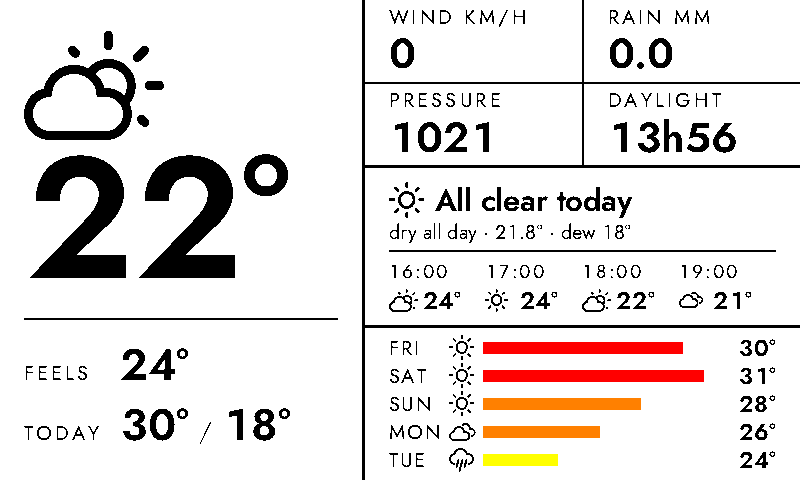
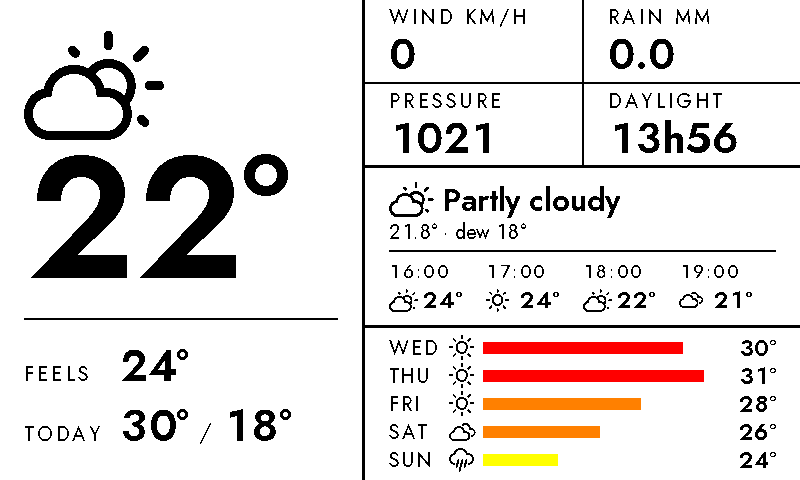
Show the current condition when nothing needs flagging
The NEXT zone's quiet state read "All clear today" over the day's
conditions. The design expected a qualifier like "dry all day", but the
Tempest API words conditions as sky ("Partly Cloudy", "Rain Possible"),
so the panel said all clear and partly cloudy in one breath. "Today" also
overpromised: only the next few hours are checked for rain.

- The quiet headline is now the current condition in sentence case, with
  the matching day/night glyph, over exact temperature, dew point and
  pressure trend. Any active concern still takes the slot.
- Widen the NEXT glyph column from 46 to 54 px. Partly cloudy, day rain,
  day snow, fog and wind glyphs are 40-45 px wide at 32 px and touched
  the headline; the wind one already did on "Gusts".
- check_widths() now asserts the longest API condition fits and every
  glyph clears the headline by 8 px.
- Quiet scenario uses API-style wording; README and preview updated.

Claude-Session: https://claude.ai/code/session_01We2HT92gfHP8UoXH2mUDBq

diff --git a/main.py b/main.py
@@ -330,7 +330,7 @@ METRIC_BLOCK_H = METRIC_LABEL_LINE + METRIC_LABEL_GAP + SIZE_METRIC   # 68
 NEXT_PAD_TOP = 16
 NEXT_PAD_BOTTOM = 12
 NEXT_TITLE_H = 32
-NEXT_GLYPH_COL = 46
+NEXT_GLYPH_COL = 54         # widest condition glyph is 45 px at 32; 9 px clear
 NEXT_SUB_GAP = 6
 NEXT_SUB_H = SIZE_LABEL
 NEXT_STRIP_GAP = 10         # clearance above the strip's rule
@@ -1382,26 +1382,25 @@ def select_concern(weather):
             "clauses": [f"low {fmt_temp(low)}", f"dew {fmt_temp(dew)}", exact_clause],
         }
 
-    # 7. Nothing active.
+    # 7. Nothing active: say what the sky is doing now.
+    # This used to read "All clear today" over the day's conditions, which
+    # the API words as sky ("Partly Cloudy", "Rain Possible"), so the panel
+    # said all clear and partly cloudy in one breath. It also promised the
+    # whole day while only the next few hours are checked above. The
+    # current condition is what you would see out of the window, and when
+    # anything above becomes active it takes this slot, so the absence of
+    # a concern is still legible.
     trend = weather.get("pressure_trend")
-    clauses = [
-        (weather.get("today_conditions") or "").strip().lower() or None,
-        exact_clause,
-        f"dew {fmt_temp(dew)}" if dew is not None else None,
-        f"pressure {trend}" if trend in ("rising", "falling") else None,
-    ]
+    condition = weather.get("condition") or weather.get("today_conditions")
     return {
-        "glyph": condition_glyph(day_icon(weather)),
-        "headline": "All clear today",
-        "clauses": clauses,
+        "glyph": condition_glyph(weather.get("icon_name"), is_night(weather)),
+        "headline": sentence_case(condition) if condition else "Nothing to watch",
+        "clauses": [
+            exact_clause,
+            f"dew {fmt_temp(dew)}" if dew is not None else None,
+            f"pressure {trend}" if trend in ("rising", "falling") else None,
+        ],
     }
-
-
-def day_icon(weather):
-    days = weather.get("daily") or []
-    if days:
-        return days[0].get("icon")
-    return weather.get("icon_name")
 
 
 def precip_transition(weather):
@@ -1708,7 +1707,7 @@ def draw_next(draw, weather):
     content_bottom = zone_bottom - NEXT_PAD_BOTTOM
     y = NEXT_Y0 + NEXT_PAD_TOP
 
-    # Title row: glyph in a fixed 46 px column, then the headline.
+    # Title row: glyph in a fixed 54 px column, then the headline.
     draw_glyph(
         draw, RIGHT_X0, y + NEXT_TITLE_H / 2, concern["glyph"], SIZE_NEXT_GLYPH,
     )
@@ -1879,6 +1878,21 @@ def check_widths():
     budget = RIGHT_X1 - RIGHT_X0 - NEXT_GLYPH_COL
     assert headline <= budget, f"headline overflows: {headline:.0f} px of {budget}"
 
+    # The longest condition the Tempest API words, now that a quiet panel
+    # carries the condition as its headline.
+    condition = text_width(
+        "Thunderstorms possible", semibold(SIZE_HEADLINE), TRACK_HEADLINE,
+    )
+    assert condition <= budget, f"condition overflows: {condition:.0f} px of {budget}"
+
+    # Every glyph the NEXT title row can draw keeps clear of the headline.
+    glyph_font = icon(SIZE_NEXT_GLYPH)
+    for name, glyph in WI.items():
+        left, _, right, _ = glyph_font.getbbox(glyph)
+        assert right - left <= NEXT_GLYPH_COL - 8, (
+            f"NEXT glyph {name} crowds the headline: {right - left} px"
+        )
+
 
 check_widths()
 
@@ -2006,7 +2020,7 @@ SCENARIO_ICONS = {
 SCENARIOS = {
     "quiet": {
         "temp": 21.8, "feels": 24.4, "high": 30.0, "low": 18.0, "dew": 18.0,
-        "icon": "partly", "conditions": "dry all day",
+        "icon": "partly", "conditions": "Partly Cloudy",
         "wind": 0.0, "rain": 0.0, "pressure": 1021.0, "daylight": "13h56",
         "alert": None,
         "hours": [("partly", 24.0, 5), ("clear", 24.0, 0),

diff --git a/README.md b/README.md
@@ -20,7 +20,7 @@ Two columns split by a rule at x=362, with fixed geometry — nothing moves betw
 |------|----------|
 | **NOW** (362 × 480, left) | The condition as a 100 px glyph, the temperature at 172 px in whole degrees, and below a rule, the feels-like and today's high and low on a shared label column. Fills with the alert colour when a government warning is active — a field of ink has no legibility threshold at all, so it registers from anywhere in the room. |
 | **METRICS** (168 px) | Wind, rain, pressure and daylight in a 2×2 grid — always these four, always in this order, each carrying its unit in the label so the value stays as large as the cell allows. A metric with no data shows a dash rather than disappearing. |
-| **NEXT** (160 px) | The single highest-priority thing worth knowing — an official alert, lightning, rain starting, gusts, frost, or station trouble — in sentence case, over a sub-line of qualifying figures, over the next four hours. Reads `All clear today` when all is quiet, and keeps its height either way. The exact temperature lives on the sub-line, since the hero rounds. |
+| **NEXT** (160 px) | The single highest-priority thing worth knowing — an official alert, lightning, rain starting, gusts, frost, or station trouble — in sentence case, over a sub-line of qualifying figures, over the next four hours. When nothing needs flagging it shows the current condition instead, such as `Partly cloudy`, and keeps its height either way. The exact temperature lives on the sub-line, since the hero rounds. |
 | **LATER** (152 px) | Five days: name, condition glyph, a 12 px temperature bar and the high. Bar *length* is relative to that week's own range, so it shows the week's shape; bar *fill* is absolute — blue below 0 °C, green to 9, white to 19, then yellow, orange and red — so it shows the week's level. There is no key: the high is printed beside every bar, so the panel teaches its own scale. |
 
 Times are always absolute. The panel can be 15 minutes stale, so "in 3h 25m" is wrong for 14 of every 15 minutes; `18:00` never is.
